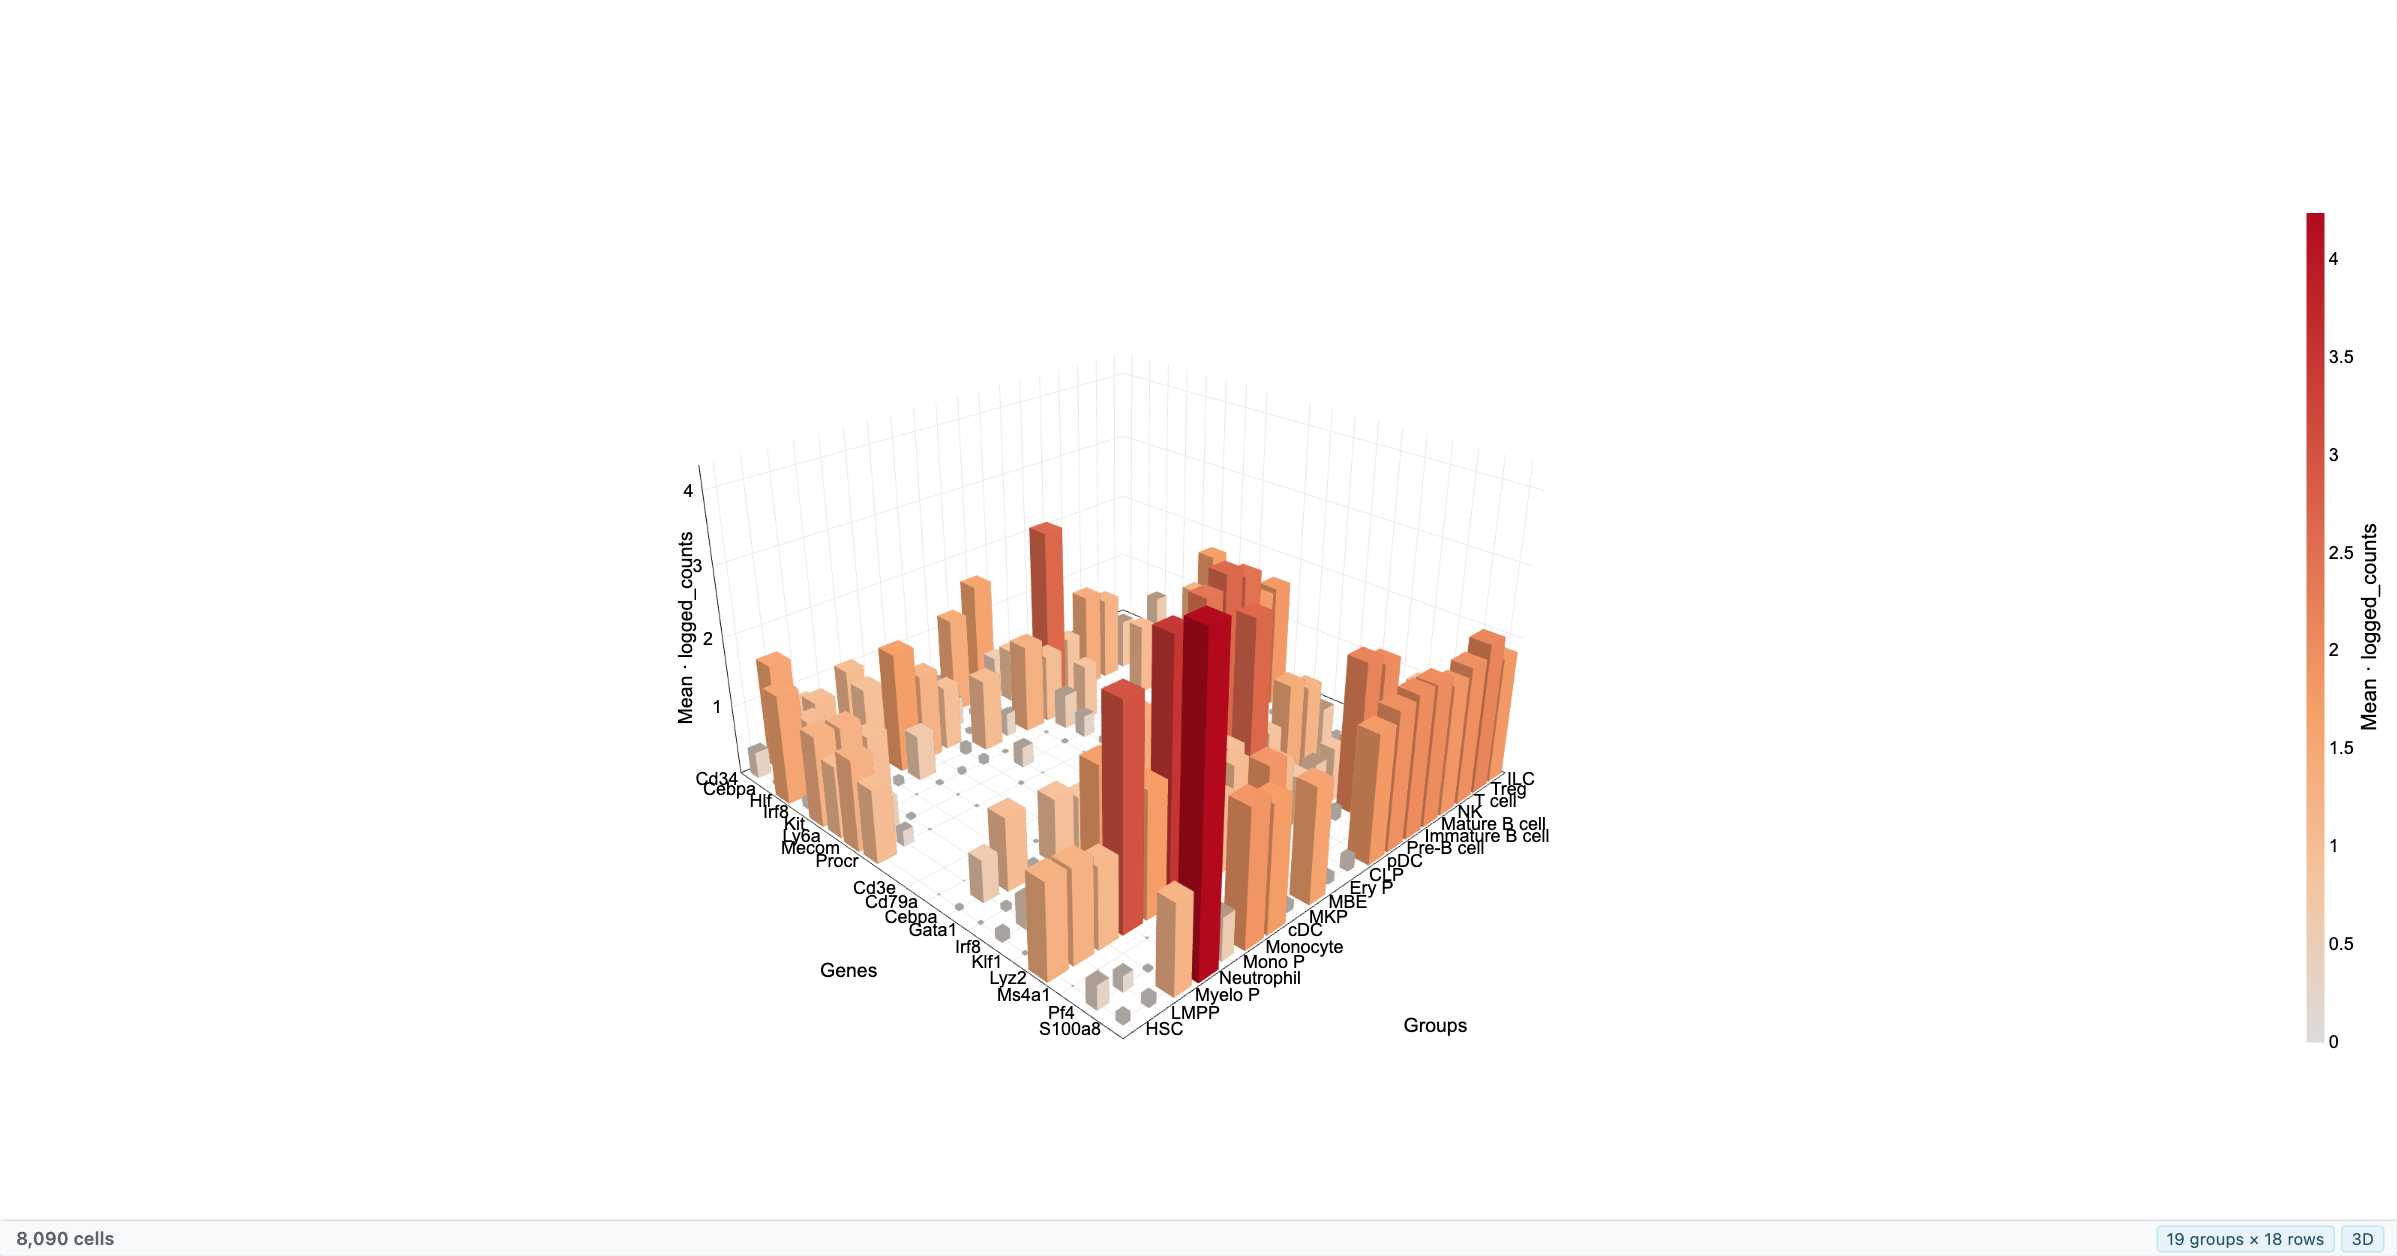
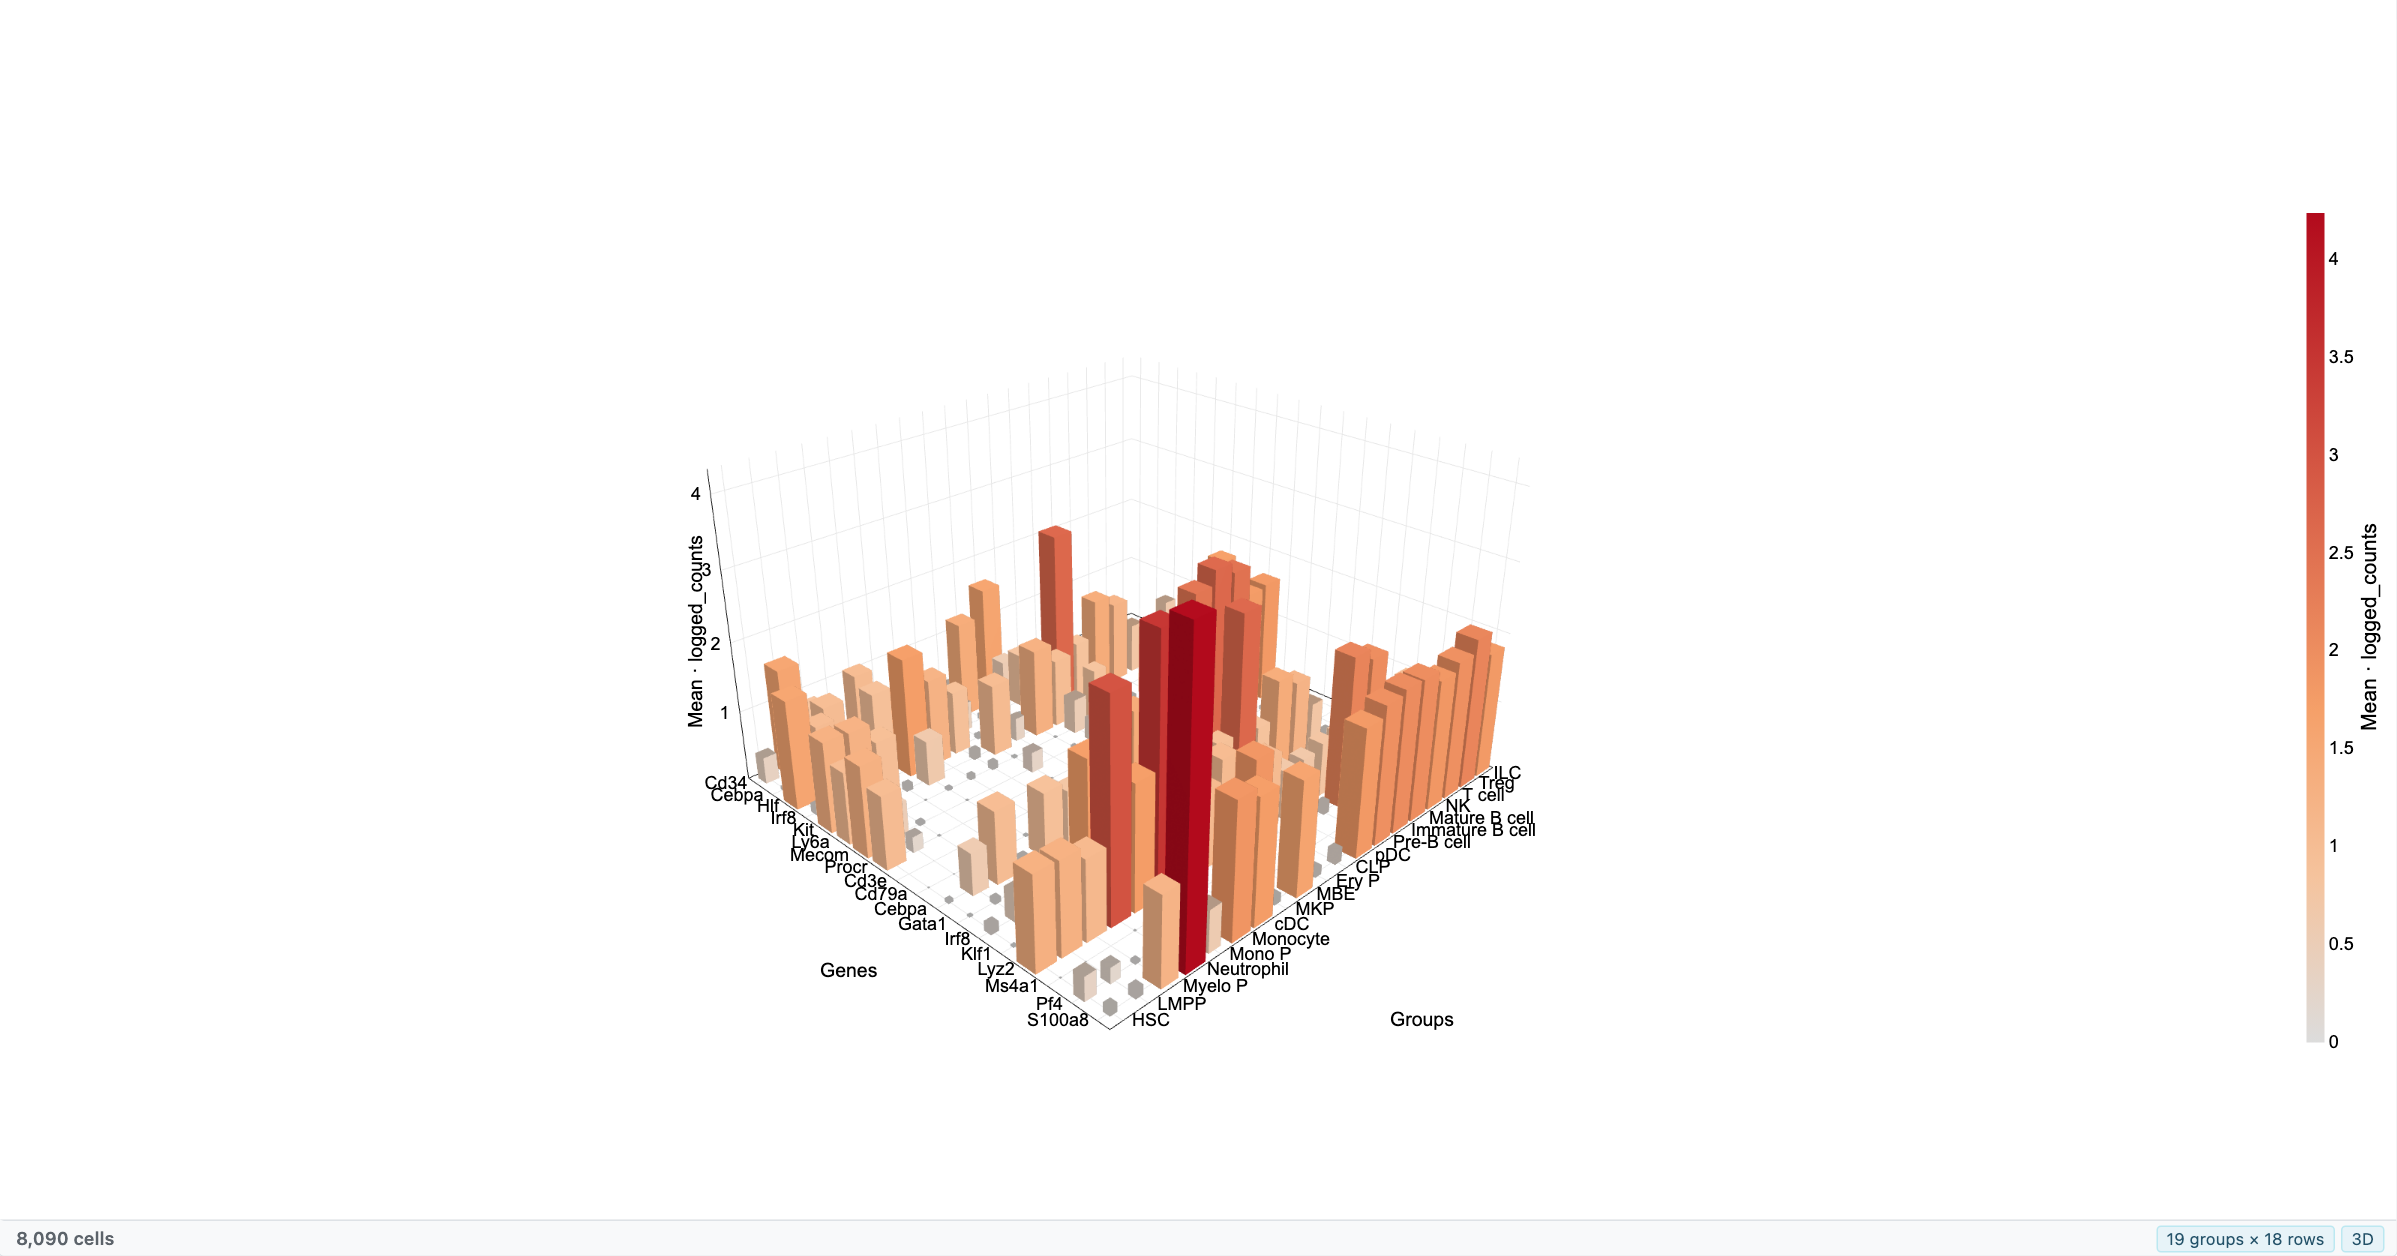
docs: Cell-Gene figures retaken with sections side by side (gap 0) and the legend following the plot; the colour bar's minimum height in short tiles

Changed region(s): [[0.2778, 0.4037, 0.6483, 0.8384], [0.5866, 0.8073, 0.6174, 0.8384]]

diff --git a/docs/user-guide/cell-gene-plot.md b/docs/user-guide/cell-gene-plot.md
@@ -311,7 +311,7 @@ defaults and sections:
 Presets, Text, Legend, Export and the plot's own sections start open; the others unfold with a click, and each keeps its state
 while the page is open. **Reset** under a section puts its fields back to their defaults. A strip legend with more
 levels than **Entries, at most** lists the first ones and a last line "+ 12 more"; one that does not fit its slot is
-cut the same way, and two columns hold twice as many. **Apply to other Cell-Gene plots** gives every other Cell-Gene
+cut the same way, and two columns hold twice as many. In a short tile the colour bar keeps a readable minimum height (64 px), and a group legend that does not fit lists the entries that do, then "+ N more". **Apply to other Cell-Gene plots** gives every other Cell-Gene
 Plot this plot's look (not its titles), after a question. A plot made from the panel chooser starts on the session
 default and follows it until you change its look; see {doc}`plot-options`.
 
